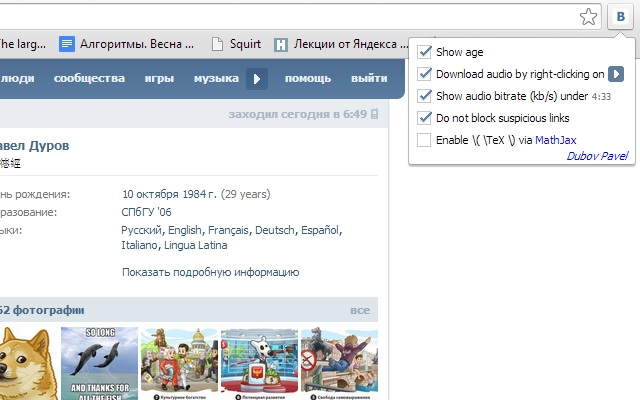
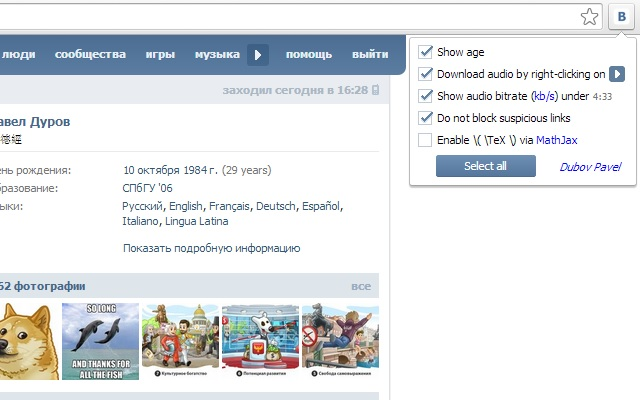
select/deselect all; dblclick disabled

diff --git a/main.js b/main.js
@@ -11,8 +11,48 @@ document.addEventListener("DOMContentLoaded", function () {
 	}
 });
 
+function toggle_control(features_list, button) {
+	var features_on = 0;
+	var all_features = features_list.length;
+
+	button.onclick = function() {
+		if(features_on == all_features) {
+			for(var i = 0; i < all_features; ++i) {
+				features_list[i].onclick();
+			}
+		} else {
+			for(var i = 0; i < all_features; ++i) {
+				if(!features_list[i].classList.contains("on")) {
+					features_list[i].onclick();
+				}
+			}
+		}
+	}
+
+	function check_caption() {
+		if(features_on == all_features) {
+			button.innerText = "Deselect all";
+		} else {
+			button.innerText = "Select all";
+		}
+	}
+
+	this.toggler = function(turned_on) {
+		if(turned_on) {
+			++features_on;
+		} else {
+			--features_on;
+		}
+		check_caption();
+	}
+}
+
+var toggle_button_control;
+
+
 document.addEventListener("DOMContentLoaded", function() {
 	var list = document.getElementsByClassName("checkbox");
+	toggle_button_control = new toggle_control(list, document.getElementById("toggle_all"));
 	for(var i = 0; i < list.length; ++i) {
 		list[i].onclick = (function(obj) {
 			return function(event) {
@@ -25,12 +65,16 @@ document.addEventListener("DOMContentLoaded", function() {
                     );
                 })(obj.id, flag);
 				obj.classList.toggle("on", flag);
+				toggle_button_control.toggler(flag);
 			};
 		})(list[i]);
         (function(obj) {
             chrome.storage.sync.get(obj.id, 
                 function(items) {
-                    obj.classList.toggle("on", (items[obj.id] == "true"));
+                	if(items[obj.id] == "true") {
+                    	obj.classList.toggle("on", true);
+                    	toggle_button_control.toggler(true);
+                    }
                 }
             );
         })(list[i]);

diff --git a/main.html b/main.html
@@ -22,7 +22,7 @@ a.immutable_link{
 }
 </style>
 </head>
-<body>
+<body style="-webkit-user-select: none;">
 <div class="border">
 <div class="clear_fix indented">
 <div class="checkbox fl_l" id="age">
@@ -42,7 +42,7 @@ Download audio by right-clicking on
 
 <div class="clear_fix indented">
 <div class="checkbox fl_l" id="audio_bitrate">
-<div></div>Show audio bitrate (kb/s) under
+<div></div>Show audio bitrate (<a href="http://en.wikipedia.org/wiki/Kb/s" class="immutable_link">kb/s</a>) under
 <span class="audio">
 <span class="duration" style="padding: 0px 0px 0px 0px;">4:33</span>
 </span>
@@ -55,12 +55,15 @@ Download audio by right-clicking on
 </div>
 </div>
 
-<div class="clear_fix">
+<div class="clear_fix indented">
 <div class="checkbox fl_l" id="mathjax">
 <div></div>Enable \( \TeX \) via <a href="http://www.mathjax.org/" class="immutable_link">MathJax</a>
 </div>
 </div>
-<div style="display: block; float: right;">
+<div class="button_blue indented" style="padding-left: 18px;">
+<button id="toggle_all" style="padding-top: 4px; padding-bottom: 4px; width: 100px;">Select all</button>
+</div>
+<div style="display: block; float: right; padding-top: 5px; padding-right: 8px;">
 <a href="http://vk.com/id9813536" class="immutable_link" rel="author"><address>Dubov Pavel</address></a>
 </div>
 </div>
